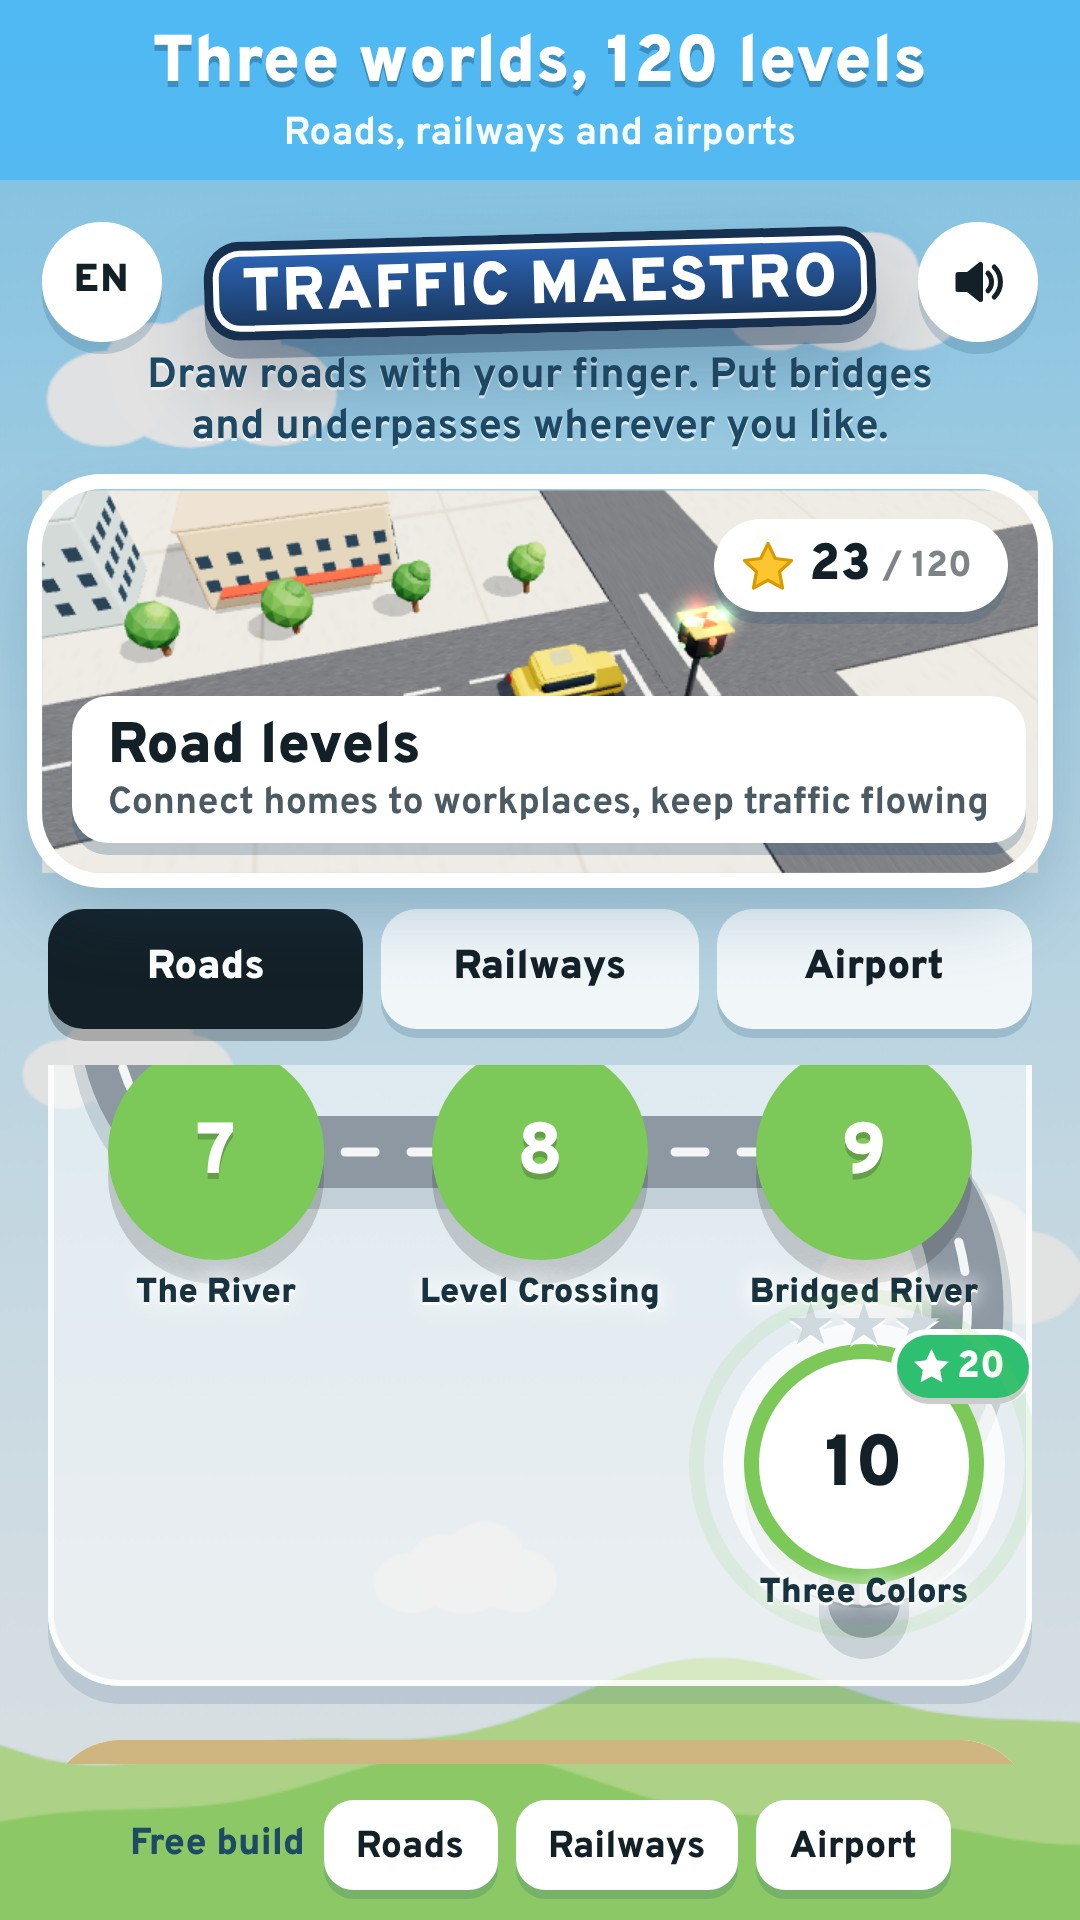
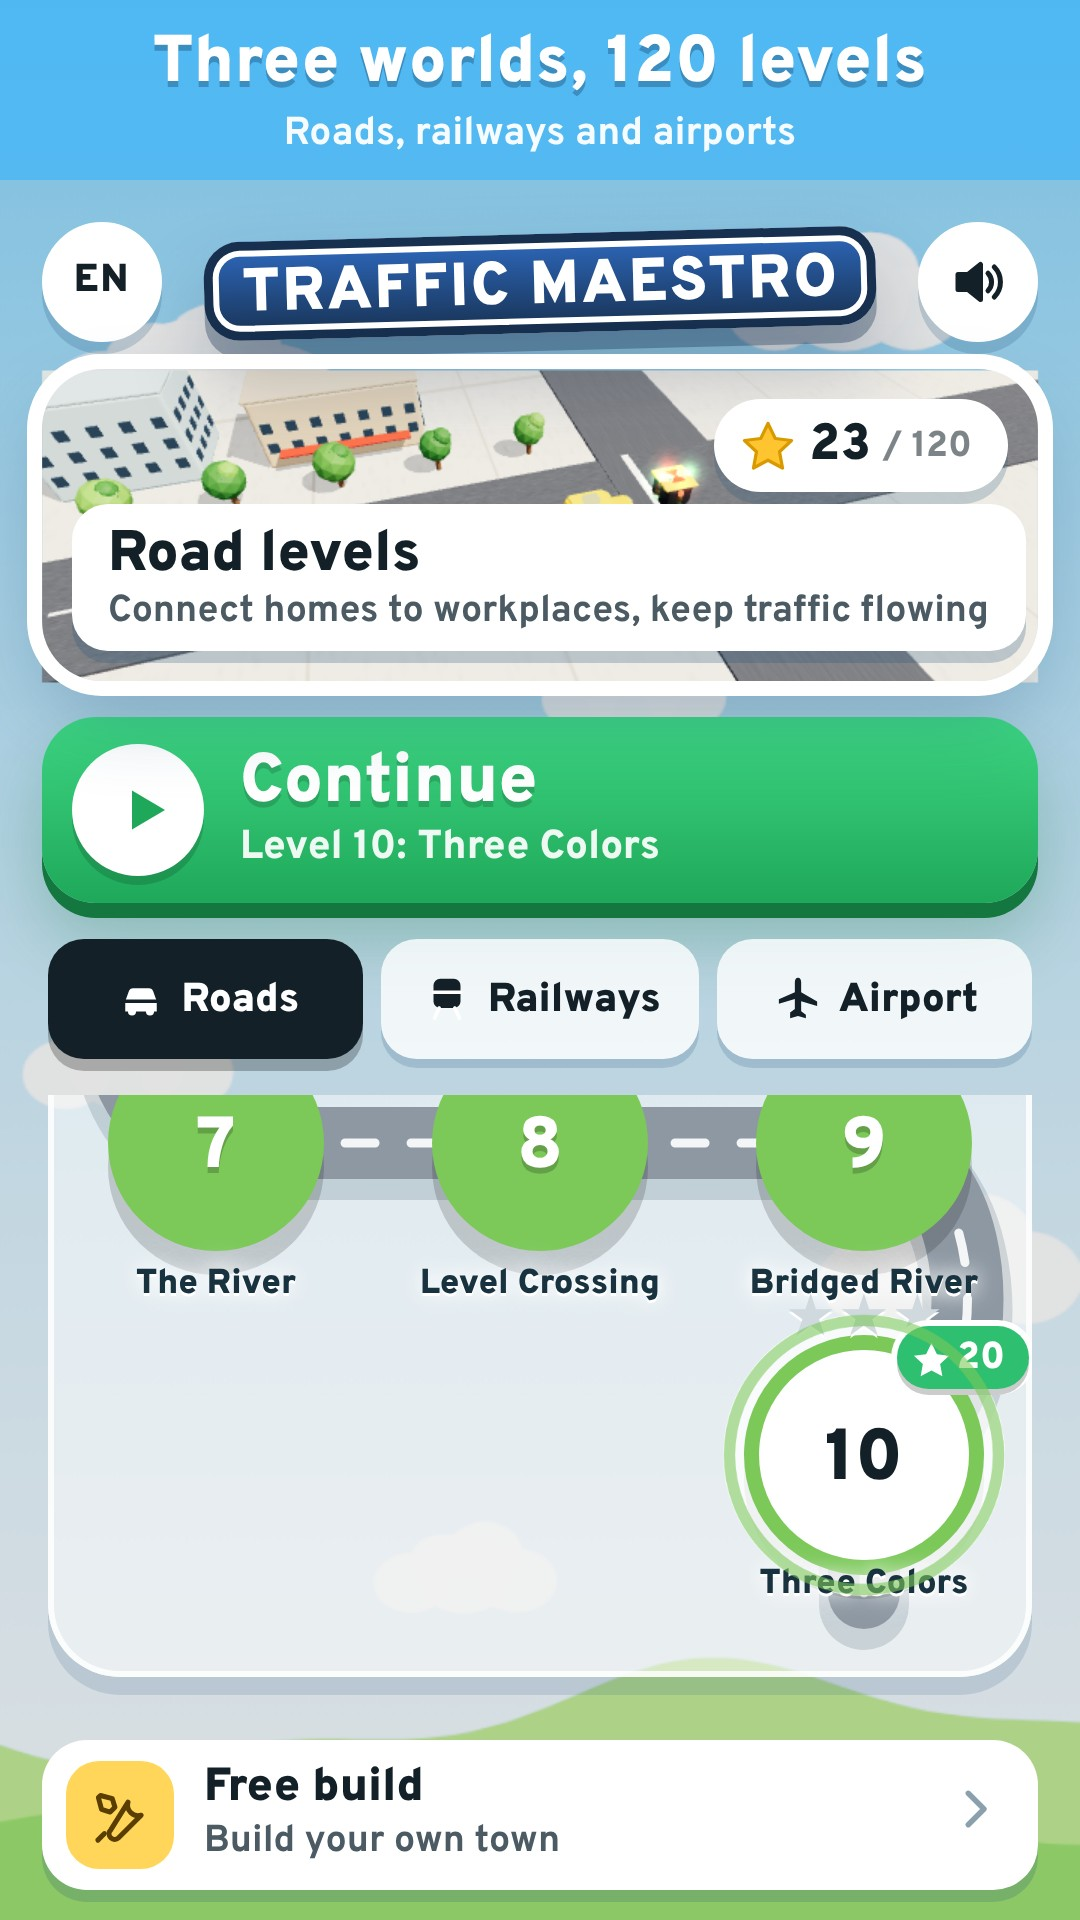
Açılış simgesiz ve yumuşak; ana ekranda büyük Oyna düğmesi, tek Serbest atölye düğmesi
- Açılış ekranı: simge yok, ana ekranın gökyüzü renginde; oyun ilk kareyi çizince 'hazir' der,
  açılış ekranı solarak kalkar (yedek 2,5 sn). Sayfa arka planı da gökyüzü renginde (koyu ekran yok)
- Ana ekran: büyük yeşil Oyna / Devam et / Yıldız topla düğmesi sıradaki bölümü tek dokunuşla açar;
  ilk açılışta hafifçe nabız atar. Üst yazı kaldırıldı, sahne kartı biraz küçüldü
- Sekmelerde araba, tren ve uçak simgeleri
- Alttaki tekrar eden üç atölye düğmesi yerine seçili sekmenin atölyesini açan tek düğme
- İngilizce karşılıklar, testler (210/210), bölüm denetimi, dil denetimi (Türkçe kalan 0)
- Mağaza ekran görüntüleri yeni ana ekranla yeniden üretildi

Claude-Session: https://claude.ai/code/session_0156CvAogtVYziKRmLM3uGcM

diff --git a/ray-arasi/css/style.css b/ray-arasi/css/style.css
@@ -18,7 +18,7 @@
   color-scheme: dark;
 }
 * { box-sizing: border-box; -webkit-tap-highlight-color: transparent; }
-html, body { height: 100%; margin: 0; background: var(--table); color: var(--paper); font-family: var(--font-sign); overflow: hidden; overscroll-behavior: none; }
+html, body { height: 100%; margin: 0; background: #87c3e1 linear-gradient(180deg, #87c3e1 0%, #a8cadc 40%, #d3dde2 85%, #8cc966 94%) fixed; color: var(--paper); font-family: var(--font-sign); overflow: hidden; overscroll-behavior: none; }
 body { -webkit-user-select: none; user-select: none; -webkit-touch-callout: none; }
 [hidden] { display: none !important; }
 #app {
@@ -404,3 +404,33 @@ svg.star { width: 20px; height: 20px; fill: #ffc531; stroke: #d99a00; stroke-wid
 /* oyun adı levhası iki yan düğmenin arasına sığar; yazı tek satır, sığmazsa küçülür (js/dil.js) */
 .menu-head .title-plate { max-width: calc(100% - 108px); box-sizing: border-box; }
 .title-plate h1 { white-space: nowrap; }
+
+
+/* ================= ANA EKRAN: OYNA DÜĞMESİ, SEKME SİMGELERİ, TEK ATÖLYE DÜĞMESİ ================= */
+.menu-banner { height: clamp(104px, 17vh, 160px); }
+.btn-oyna { flex: none; display: flex; align-items: center; gap: 12px; width: 100%; min-height: 62px; padding: 8px 16px 8px 10px; border: 0; border-radius: 18px;
+  background: linear-gradient(180deg, #3ed682, #1fa85a); color: #fff; font-family: inherit; text-align: left; cursor: pointer;
+  box-shadow: 0 5px 0 #14773f, 0 12px 22px rgba(20,119,63,0.28); -webkit-tap-highlight-color: transparent; }
+.btn-oyna:active { transform: translateY(3px); box-shadow: 0 2px 0 #14773f, 0 6px 12px rgba(20,119,63,0.25); }
+.btn-oyna .o-i { flex: none; display: grid; place-items: center; width: 44px; height: 44px; border-radius: 50%; background: #fff; box-shadow: 0 3px 0 rgba(0,0,0,0.15); }
+.btn-oyna .o-i svg { width: 24px; height: 24px; fill: #1fa85a; margin-left: 3px; }
+.btn-oyna .o-x { display: flex; flex-direction: column; min-width: 0; }
+.btn-oyna b { font-size: 23px; font-weight: 900; line-height: 1.05; letter-spacing: 0.01em; text-shadow: 0 2px 0 rgba(0,0,0,0.15); }
+.btn-oyna em { font-style: normal; font-size: 13.5px; font-weight: 800; opacity: 0.92; white-space: nowrap; overflow: hidden; text-overflow: ellipsis; }
+.btn-oyna.ilk { animation: oynapulse 1.6s ease-in-out infinite; }
+@keyframes oynapulse { 50% { box-shadow: 0 5px 0 #14773f, 0 0 0 7px rgba(62,214,130,0.35), 0 12px 22px rgba(20,119,63,0.28); } }
+.lv-tabs button { display: inline-flex; align-items: center; justify-content: center; gap: 5px; }
+.lv-tabs button svg { flex: none; width: 18px; height: 18px; fill: currentColor; }
+.lv-tabs button svg .c { fill: none; stroke: currentColor; stroke-width: 1.6; stroke-linecap: round; }
+.lv-tabs button svg .c { stroke: #fff; } /* ayrıntı çizgileri gövdenin üstünde zıt renkte */
+.lv-tabs button[aria-selected="true"] svg .c { stroke: var(--ink); }
+.menu-foot { flex: none; }
+.free-one { display: flex; align-items: center; gap: 10px; width: 100%; min-height: 50px; padding: 6px 12px 6px 8px; border: 0; border-radius: 15px; background: #fff; color: var(--ink);
+  font-family: inherit; text-align: left; cursor: pointer; box-shadow: 0 4px 0 rgba(30,80,120,0.2); -webkit-tap-highlight-color: transparent; }
+.free-one:active { transform: translateY(2px); box-shadow: 0 2px 0 rgba(30,80,120,0.2); }
+.free-one .f-i { flex: none; display: grid; place-items: center; width: 36px; height: 36px; border-radius: 11px; background: #ffd65a; }
+.free-one .f-i svg { width: 21px; height: 21px; fill: none; stroke: #5a3d00; stroke-width: 1.9; stroke-linejoin: round; stroke-linecap: round; }
+.free-one .f-x { flex: 1; display: flex; flex-direction: column; min-width: 0; }
+.free-one b { font-size: 15.5px; font-weight: 900; line-height: 1.1; }
+.free-one em { font-style: normal; font-size: 12.5px; font-weight: 700; color: #4b5a63; }
+.free-one .f-o svg { width: 18px; height: 18px; fill: none; stroke: #8aa0ad; stroke-width: 2.4; stroke-linecap: round; stroke-linejoin: round; }

diff --git a/ray-arasi/index.html b/ray-arasi/index.html
@@ -25,7 +25,6 @@
     <section id="menu" class="screen" aria-label="Ana ekran">
       <header class="menu-head">
         <div class="title-plate"><h1 id="oyun-adi">TRAFİK USTASI</h1></div>
-        <p class="tagline">Yolu parmağınla çiz, köprüyü ve alt geçidi istediğin yere koy.</p>
         <button id="btn-dil" class="btn-dil round-btn" type="button" aria-label="Dil: Türkçe. İngilizceye geç">TR</button>
         <button class="btn-sound round-btn" type="button" aria-label="Sesi kapat" aria-pressed="true">
           <svg viewBox="0 0 24 24" aria-hidden="true"><path class="spk" d="M4 9h4l5-4v14l-5-4H4z"/><path class="wave" d="M16 8.5a5 5 0 0 1 0 7M18.5 6a8.5 8.5 0 0 1 0 12"/><path class="mute" d="M16 9l6 6M22 9l-6 6"/></svg>
@@ -35,17 +34,24 @@
         <div id="menu-stars" class="menu-stars" aria-label="Toplam yıldız"></div>
         <div class="menu-banner-txt"><strong id="menu-set-t">Karayolu bölümleri</strong><em id="menu-set-d">Evleri iş yerlerine bağla, trafiği tıkatma</em></div>
       </div>
+      <!-- tek dokunuşla sıradaki bölüm -->
+      <button id="btn-oyna" class="btn-oyna" type="button">
+        <span class="o-i" aria-hidden="true"><svg viewBox="0 0 24 24"><path d="M8 5.5l11 6.5-11 6.5z"/></svg></span>
+        <span class="o-x"><b id="oyna-t">Oyna</b><em id="oyna-d">Bölüm 1</em></span>
+      </button>
       <div class="lv-tabs" role="tablist" aria-label="Bölüm türü">
-        <button type="button" role="tab" data-set="road" aria-selected="true">Karayolu</button>
-        <button type="button" role="tab" data-set="rail" aria-selected="false">Demiryolu</button>
-        <button type="button" role="tab" data-set="air" aria-selected="false">Havalimanı</button>
+        <button type="button" role="tab" data-set="road" aria-selected="true"><svg viewBox="0 0 24 24" aria-hidden="true"><path d="M5 13l1.6-4.4A2 2 0 0 1 8.5 7.2h7a2 2 0 0 1 1.9 1.4L19 13v4.5H5z"/><path class="c" d="M5 13h14"/><circle cx="8" cy="17.5" r="1.8"/><circle cx="16" cy="17.5" r="1.8"/></svg>Karayolu</button>
+        <button type="button" role="tab" data-set="rail" aria-selected="false"><svg viewBox="0 0 24 24" aria-hidden="true"><rect x="6" y="3" width="12" height="13" rx="3"/><path class="c" d="M6 9h12"/><circle cx="9.5" cy="12.5" r="1"/><circle cx="14.5" cy="12.5" r="1"/><path class="c" d="M8.5 16l-2 4.5M15.5 16l2 4.5"/></svg>Demiryolu</button>
+        <button type="button" role="tab" data-set="air" aria-selected="false"><svg viewBox="0 0 24 24" aria-hidden="true"><path d="M12 2.5c.9 0 1.4.9 1.4 2V9l7.1 4.1v2l-7.1-2.1v4.4l2.1 1.6v1.6l-3.5-1-3.5 1V18l2.1-1.6V12l-7.1 2.1v-2L10.6 9V4.5c0-1.1.5-2 1.4-2z"/></svg>Havalimanı</button>
       </div>
       <div id="lv-grid" class="lv-grid" role="list" aria-label="Bölümler"></div>
       <footer class="menu-foot">
-        <span class="free-lbl">Serbest atölye</span>
-        <button class="free-btn" type="button" data-mode="road">Karayolu</button>
-        <button class="free-btn" type="button" data-mode="rail">Demiryolu</button>
-        <button class="free-btn" type="button" data-mode="air">Havalimanı</button>
+        <!-- seçili sekmenin serbest atölyesi: bölümsüz, kendi şehrini kur -->
+        <button id="btn-atolye" class="free-one" type="button" data-mode="road">
+          <span class="f-i" aria-hidden="true"><svg viewBox="0 0 24 24"><path d="M14.5 6.5a4 4 0 0 0 5 5l-8.6 8.6a2.1 2.1 0 0 1-3-3z"/><path class="c" d="M3 21l2.5-2.5"/><path d="M4 4l4.5 1.2 1 3.3-1.8 1.8-3.3-1L3.2 4.8z"/></svg></span>
+          <span class="f-x"><b>Serbest atölye</b><em id="atolye-d">Kendi şehrini kur</em></span>
+          <span class="f-o" aria-hidden="true"><svg viewBox="0 0 24 24"><path d="M9 5l7 7-7 7"/></svg></span>
+        </button>
       </footer>
     </section>
 

diff --git a/ray-arasi/js/menu.js b/ray-arasi/js/menu.js
@@ -163,7 +163,10 @@
       this.t = 0;
       this.scenes = { rail: railScene(), road: roadScene(), air: airScene() };
       this.views = Array.from(document.querySelectorAll('#menu [data-scene]'));
-      document.querySelectorAll('#menu .free-btn').forEach((b) => b.addEventListener('click', () => app.openWorkshop(b.dataset.mode)));
+      // alttaki tek düğme: seçili sekmenin serbest atölyesi
+      document.getElementById('btn-atolye').addEventListener('click', () => app.openWorkshop(this.set));
+      // büyük "Oyna / Devam et" düğmesi: sıradaki bölümü tek dokunuşla açar
+      document.getElementById('btn-oyna').addEventListener('click', () => { if (this.hedef) app.openLevel(this.hedef); });
       this.grid = document.getElementById('lv-grid');
       // sekmeler: karayolu / demiryolu / havalimanı bölümleri
       this.set = RA.store.get('lv.set', 'road') || 'road';
@@ -196,6 +199,17 @@
       const chapters = LV.CHAPTERS_M[set.mode] || LV.CHAPTERS;
       const W = Math.max(280, (this.grid.clientWidth || 362) - 4);
       const next = lv.find((L) => LV.progress.unlocked(L.id) && !LV.progress.stars(L.id));
+      // Oyna düğmesi: hiç oynanmadıysa "Oyna", sıradaki bölüm varsa "Devam et", kapı ya da bitiş varsa eksik yıldızlı bölüm
+      const eksik = lv.find((L) => LV.progress.unlocked(L.id) && LV.progress.stars(L.id) < 3);
+      const hedef = next || eksik || lv[lv.length - 1];
+      this.hedef = hedef.id;
+      const oT = !total ? 'Oyna' : next ? 'Devam et' : eksik ? 'Yıldız topla' : 'Tekrar oyna';
+      document.getElementById('oyna-t').textContent = RA.t(oT);
+      document.getElementById('oyna-d').textContent = RA.t('Bölüm {n}: {ad}', { n: hedef.n, ad: RA.lvYazi(hedef, 'name') });
+      const ob = document.getElementById('btn-oyna');
+      ob.classList.toggle('ilk', !total); ob.setAttribute('aria-label', RA.t(oT) + ', ' + document.getElementById('oyna-d').textContent);
+      const at = document.getElementById('btn-atolye'); at.dataset.mode = set.mode;
+      document.getElementById('atolye-d').textContent = RA.t({ road: 'Kendi şehrini kur', rail: 'Kendi demiryolu ağını kur', air: 'Kendi havalimanını kur' }[set.mode]);
       let html = '';
       chapters.forEach((ch, ci) => {
         const items = lv.filter((L) => L.n >= ch.from && L.n <= ch.to);

diff --git a/ray-arasi-mobil/App.js b/ray-arasi-mobil/App.js
@@ -7,7 +7,11 @@ import { SafeAreaProvider, useSafeAreaInsets } from 'react-native-safe-area-cont
 import { WebView } from 'react-native-webview';
 import OYUN from './oyun/oyun';
 
+// açılış ekranı: simgesiz, ana ekranın gökyüzü renginde; oyun ilk kareyi çizince yumuşakça kaybolur
 SplashScreen.preventAutoHideAsync().catch(() => {});
+try { SplashScreen.setOptions({ fade: true, duration: 250 }); } catch (e) {}
+let acildi = false; // oyun "hazır" diyemezse de (ör. WebGL yok) sayfa yüklendikten 2,5 sn sonra kapanır
+const acilisiGizle = () => { if (acildi) return; acildi = true; SplashScreen.hideAsync().catch(() => {}); };
 
 // oyunun sanal adresi: kayıtlar (yıldızlar, ayarlar) bu adrese bağlı yerel depoda tutulur — değiştirme
 const ADRES = 'https://oyun.rayarasi.local/'; // ilk çalışma adından kaldı; kayıtları korumak için aynen kalır
@@ -40,7 +44,8 @@ function Oyun() {
 
   const mesaj = useCallback((e) => {
     const m = e.nativeEvent.data || '';
-    if (m === 'cik') BackHandler.exitApp();
+    if (m === 'hazir') acilisiGizle();
+    else if (m === 'cik') BackHandler.exitApp();
     else if (m.startsWith('ekran:')) setEkran(m.slice(6));
   }, []);
 
@@ -56,7 +61,7 @@ function Oyun() {
         originWhitelist={['*']}
         onShouldStartLoadWithRequest={(q) => q.url === ADRES || q.url.startsWith('about:') || q.url.startsWith('data:')}
         onMessage={mesaj}
-        onLoadEnd={() => SplashScreen.hideAsync().catch(() => {})}
+        onLoadEnd={() => setTimeout(acilisiGizle, 2500)}
         onContentProcessDidTerminate={() => web.current && web.current.reload()}
         onRenderProcessGone={() => web.current && web.current.reload()}
         javaScriptEnabled

diff --git a/ray-arasi/js/en-arayuz.js b/ray-arasi/js/en-arayuz.js
@@ -16,6 +16,15 @@
     'Demiryolu': 'Railways',
     'Havalimanı': 'Airport',
     'Serbest atölye': 'Free build',
+    // ana ekran: Oyna düğmesi ve tek atölye düğmesi
+    'Oyna': 'Play',
+    'Devam et': 'Continue',
+    'Yıldız topla': 'Collect stars',
+    'Tekrar oyna': 'Play again',
+    'Bölüm {n}: {ad}': 'Level {n}: {ad}',
+    'Kendi şehrini kur': 'Build your own town',
+    'Kendi demiryolu ağını kur': 'Build your own railway',
+    'Kendi havalimanını kur': 'Build your own airport',
     'Toplam yıldız': 'Total stars',
     'Bölüm türü': 'Level type',
     'Bölümler': 'Levels',

diff --git a/ray-arasi/BENIOKU.md b/ray-arasi/BENIOKU.md
@@ -22,7 +22,7 @@ Hepsi aynı serbest çizim, kesişim seçimi ve köprü / alt geçit düğmeleri
 
 ## Nasıl oynanır?
 
-1. Ana ekrandan bir **bölüm** seç. Açılan kartta hedef yazar (ör. *30 araç ulaştır*) ve elindeki malzeme: asfalt
+1. Ana ekrandaki büyük yeşil **Oyna** (oynadıkça **Devam et**) düğmesi sıradaki bölümü tek dokunuşla açar; istersen haritadan bir **bölüm** de seçebilirsin. Açılan kartta hedef yazar (ör. *30 araç ulaştır*) ve elindeki malzeme: asfalt
    (metre), köprü ve alt geçit hakkı.
 2. **Yol çiz** seçiliyken parmağını bir evin önündeki kesik çizgili halkadan başlatıp aynı renkteki iş yerinin önüne
    kadar sürükle. Çizgi kare kare değil, istediğin eğriyle çizilir; gerçek yol tasarımı gibi düz parçalara ve en az
@@ -327,7 +327,7 @@ tarayıcısız olarak örnek çözümle oynanıp kazanılır; köprünün gerçe
 
 ## Serbest atölye (ızgaralı kurma)
 
-Ana ekranın altındaki **Serbest atölye** düğmeleri (Karayolu, Demiryolu, Havalimanı) ızgaralı kurma modunu açar. Her biri sade, düz dört hatla açılır ve çizdiğin her şey o kart için ayrı kaydedilir:
+Ana ekranın altındaki **Serbest atölye** düğmesi, üstte seçili sekmenin (Karayolu, Demiryolu ya da Havalimanı) ızgaralı kurma modunu açar. Her biri sade, düz dört hatla açılır ve çizdiğin her şey o kart için ayrı kaydedilir:
 
 | Kart | Başlangıç (4 düz hat) | Bu kartın özel talebi |
 |---|---|---|

diff --git a/ray-arasi-mobil/BENIOKU.md b/ray-arasi-mobil/BENIOKU.md
@@ -9,6 +9,8 @@ hiçbir istek göndermez; ilerleme cihazda saklanır.
 - Expo SDK 58 (React Native 0.88), `react-native-webview`, `expo-splash-screen`, `react-native-safe-area-context`
 - Dikey ekran, iPhone (iPad'de iPhone uyumluluk modunda açılır) ve Android telefon/tablet
 - Android geri tuşu: bölümde ya da atölyedeyken ana ekrana döner, ana ekranda uygulamadan çıkar
+- Açılış: simge yok, ana ekranın gökyüzü renginde (#87c3e1) açılır; oyun ilk kareyi çizince uygulamaya `hazir` der ve açılış
+  ekranı yumuşakça kalkar (yedek: sayfa yüklendikten 2,5 sn sonra)
 - Uygulama arka plana geçince ses kesilir, çalışan bölüm duraklar
 - Çentik ve alt çubuk alanı o anki ekranın rengini alır
 - Oyun cihazın diliyle açılır (Türkçe ya da İngilizce); uygulama cihaz dilini oyuna iletir
